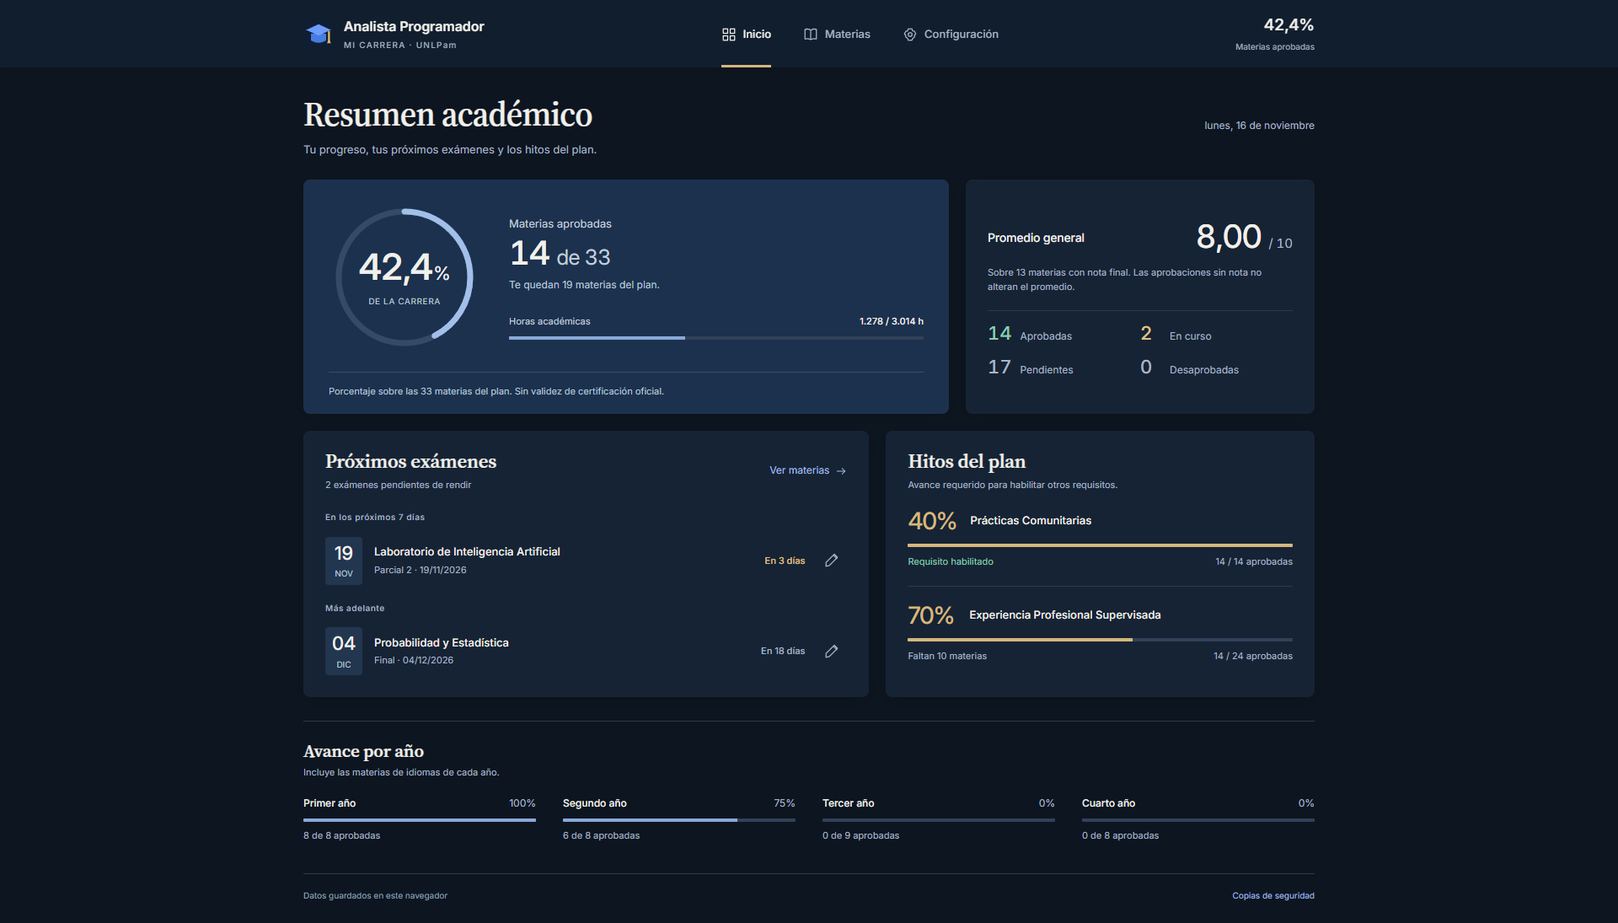
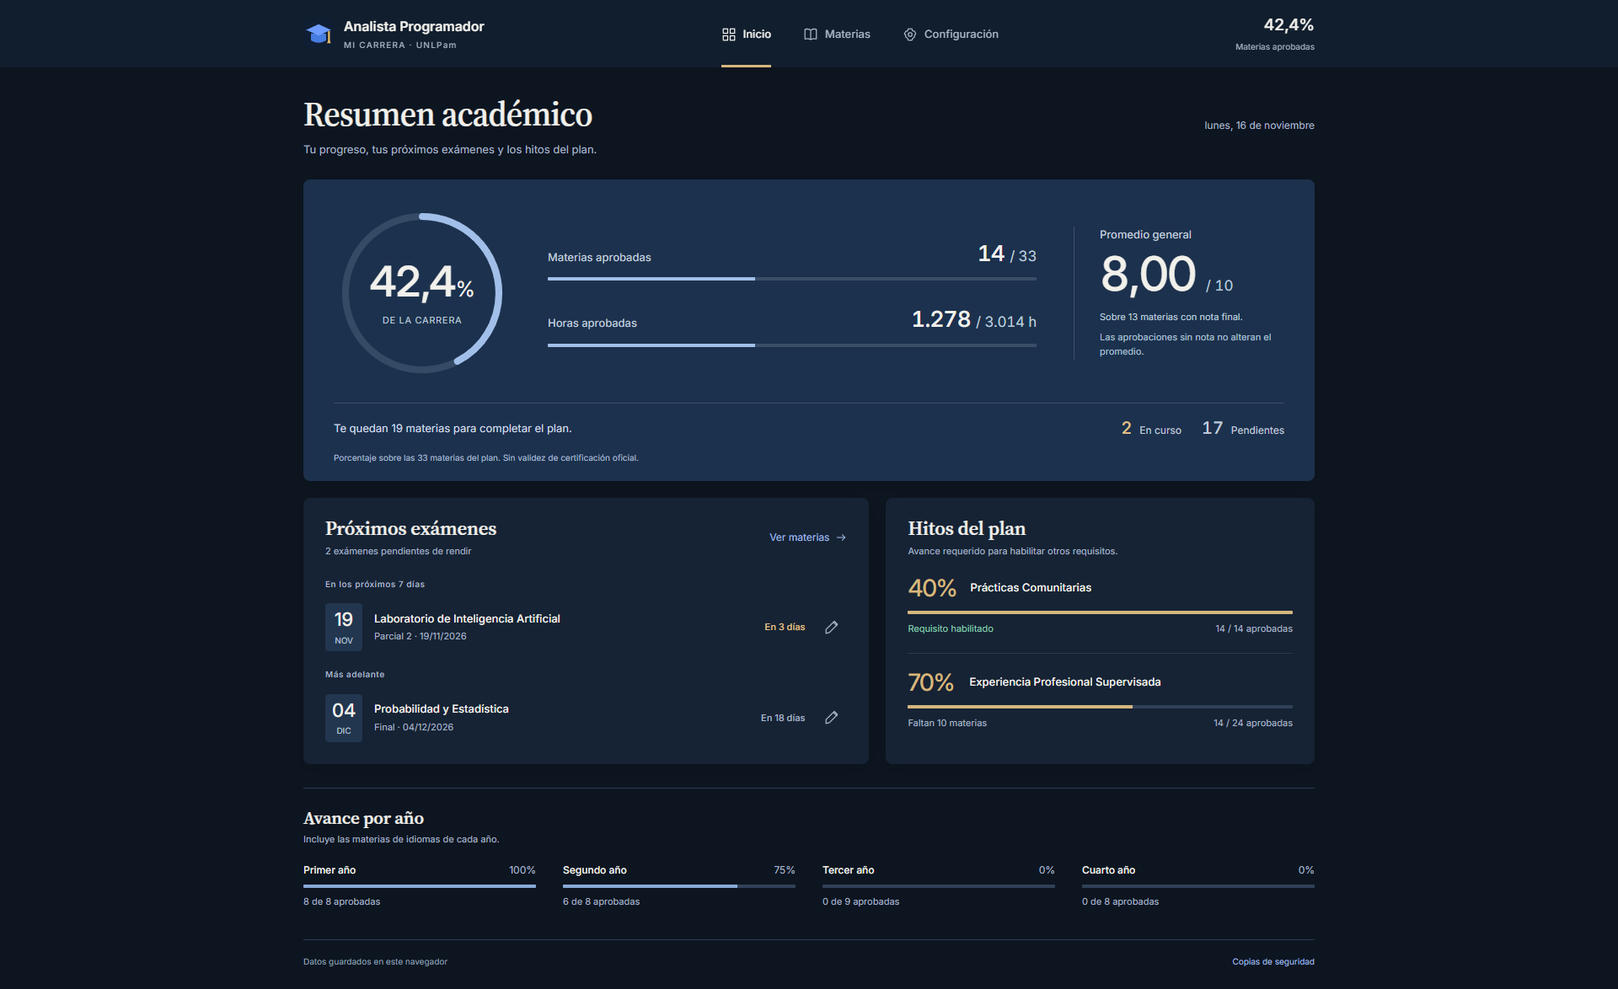
feat: integrar el resumen académico en una hero card

diff --git a/css/styles.css b/css/styles.css
@@ -75,40 +75,43 @@ main { max-width: 1248px; margin: auto; padding: 32px 24px 24px; outline: none; 
 .date-label, .plan-total { font-size: 12px; color: var(--muted); white-space: nowrap; }
 .panel { background: var(--surface); border-radius: var(--radius); box-shadow: 0 4px 18px #0002; }
 
-/* One dominant progress surface, with a compact academic summary beside it. */
-.hero-grid { display: grid; grid-template-columns: 1.85fr 1fr; gap: 20px; align-items: stretch; }
-.progress-card { padding: 26px 30px 18px; background: #1c314d; display: grid; grid-template-columns: 180px 1fr; align-items: center; column-gap: 34px; row-gap: 22px; }
-.ring { width: 180px; height: 180px; position: relative; }
+/* One continuous academic summary: the four core metrics share one surface. */
+.academic-hero { padding: 30px 36px 20px; background: #1c314d; }
+.hero-main { display: grid; grid-template-columns: 210px minmax(0,1fr) 250px; align-items: center; gap: 44px; }
+.ring { width: 210px; height: 210px; position: relative; }
 .ring svg { width: 100%; height: 100%; transform: rotate(-90deg); }
 .ring circle { fill: none; stroke-width: 7; }
 .ring-track { stroke: #344a65; }
 .ring-progress { stroke: var(--blue); stroke-linecap: round; transition: stroke-dasharray .3s; }
 .ring-center { position: absolute; inset: 0; display: flex; flex-direction: column; justify-content: center; align-items: center; }
-.ring-value { font-size: 43px; font-weight: 550; line-height: 1.1; letter-spacing: -2px; font-variant-numeric: tabular-nums; }
-.ring-value small { font-size: 22px; font-weight: 400; letter-spacing: 0; margin-left: 2px; }
-.ring-caption { font-size: 10px; letter-spacing: .6px; color: #bbc8d8; margin-top: 9px; }
-.card-kicker { font-size: 13px; color: #c1cede; margin-bottom: 3px; }
-.progress-copy h2 { font: 550 39px/1.15 Inter, sans-serif; letter-spacing: -1.4px; font-variant-numeric: tabular-nums; }
-.progress-copy h2 span { font-size: 25px; color: #c1cede; font-weight: 400; letter-spacing: -.7px; }
-.progress-copy > p { font-size: 12px; margin-top: 6px; color: #b7c6d9; }
-.hours { margin-top: 26px; }
+.ring-value { font-size: 50px; font-weight: 550; line-height: 1.1; letter-spacing: -2.4px; font-variant-numeric: tabular-nums; }
+.ring-value small { font-size: 25px; font-weight: 400; letter-spacing: 0; margin-left: 2px; }
+.ring-caption { font-size: 11px; letter-spacing: .7px; color: #bbc8d8; margin-top: 10px; }
+.hero-metrics { display: grid; gap: 30px; }
+.hero-metric-heading { display: flex; align-items: baseline; justify-content: space-between; gap: 16px; margin-bottom: 12px; }
+.hero-metric h2, .hero-average h2 { font: 450 13px/1.5 Inter, sans-serif; color: #c1cede; letter-spacing: 0; }
+.hero-metric-value { color: var(--text); font-size: 26px; line-height: 1.25; font-weight: 550; letter-spacing: -.7px; white-space: nowrap; font-variant-numeric: tabular-nums; }
+.hero-metric-value span { color: #bfccdc; font-size: 17px; font-weight: 400; letter-spacing: -.2px; }
+.hero-average { padding-left: 30px; border-left: 1px solid #40536d; }
+.average-value { margin-top: 6px; color: var(--text); font-size: 56px; font-weight: 500; line-height: 1.1; letter-spacing: -2.5px; white-space: nowrap; font-variant-numeric: tabular-nums; }
+.average-value small { font-size: 17px; font-weight: 400; color: #bdcbdd; letter-spacing: 0; }
+.average-note { font-size: 11px; line-height: 1.6; margin-top: 12px; color: #bfccdc; }
+.average-explanation { margin-top: 6px; font-size: 11px; line-height: 1.6; color: #b0c1d6; }
+.hero-footer { display: flex; align-items: center; justify-content: space-between; flex-wrap: wrap; gap: 14px 28px; border-top: 1px solid #3b4e68; padding-top: 17px; margin-top: 25px; }
+.hero-context { color: #cfdae8; font-size: 13px; }
+.hero-status { display: flex; align-items: baseline; flex-wrap: wrap; gap: 24px; }
+.hero-status > div { display: flex; align-items: baseline; gap: 9px; }
+.hero-status dt { font-size: 12px; color: #c0ccdc; order: 2; }
+.hero-status dd { font-size: 20px; font-weight: 500; line-height: 1.2; font-variant-numeric: tabular-nums; }
+.hero-status .muted { color: #c0ccdc; }
+.hero-note { margin-top: 14px; color: #aebfd4; font-size: 10px; line-height: 1.6; }
 .bar-label { display: flex; align-items: baseline; justify-content: space-between; gap: 12px; color: var(--muted); font-size: 12px; margin-bottom: 9px; }
 .bar-label strong { color: var(--text); font-size: inherit; font-weight: 500; }
-.hours .bar-label { color: #c1cede; font-size: 11px; }
 .track { height: 4px; background: #304158; overflow: hidden; border-radius: 1px; }
 .track span { display: block; height: 100%; background: #88a9d8; transition: width .3s; }
+.academic-hero .track { background: #3b4e68; }
+.academic-hero .track span { background: var(--blue); }
 .caption { font-size: 12px; line-height: 1.65; color: var(--muted); }
-.progress-note { grid-column: 1/-1; padding-top: 13px; border-top: 1px solid #3b4e68; font-size: 11px; color: #b6c5d8; }
-.average-card { padding: 23px 26px 21px; display: flex; flex-direction: column; justify-content: center; }
-.average-heading { display: flex; align-items: center; justify-content: space-between; gap: 16px; }
-.average-heading h2 { font: 500 14px/1.5 Inter, sans-serif; }
-.average-value { font-size: 38px; line-height: 1.2; font-weight: 500; letter-spacing: -1.5px; white-space: nowrap; font-variant-numeric: tabular-nums; }
-.average-value small { font-size: 15px; letter-spacing: 0; color: var(--muted); font-weight: 400; }
-.average-note { font-size: 11px; line-height: 1.6; margin: 11px 0 18px; }
-.stats-grid { display: grid; grid-template-columns: 1fr 1fr; border-top: 1px solid var(--border); }
-.stat-card { display: flex; align-items: baseline; gap: 10px; padding: 13px 12px 0 0; }
-.stat-card dt { font-size: 12px; order: 2; color: var(--muted); }
-.stat-card dd { min-width: 25px; font-size: 22px; line-height: 1.2; font-weight: 500; font-variant-numeric: tabular-nums; }
 
 .lower-grid { display: grid; grid-template-columns: 1.32fr 1fr; gap: 20px; margin-top: 20px; align-items: stretch; }
 .section-head { display: flex; align-items: center; justify-content: space-between; gap: 20px; padding: 22px 26px 0; }
@@ -280,15 +283,17 @@ dialog::backdrop { background: #050c16cc; }
   .brand { font-size: 14px; }
   .tab { padding: 0 12px; }
   .mode-label span { font-size: 9px; }
-  .hero-grid { grid-template-columns: 1.7fr 1fr; gap: 16px; }
-  .progress-card { grid-template-columns: 145px 1fr; padding: 24px; column-gap: 20px; }
-  .ring { width: 145px; height: 145px; }
-  .ring-value { font-size: 34px; }
-  .progress-copy h2 { font-size: 34px; }
-  .progress-copy h2 span { font-size: 21px; }
-  .hours .bar-label { flex-direction: column; gap: 3px; }
-  .average-card { padding: 22px; }
-  .average-value { font-size: 33px; }
+  .academic-hero { padding: 26px 28px 20px; }
+  .hero-main { grid-template-columns: 165px minmax(0,1fr) 200px; gap: 25px; }
+  .ring { width: 165px; height: 165px; }
+  .ring-value { font-size: 39px; }
+  .ring-value small { font-size: 21px; }
+  .ring-caption { font-size: 10px; }
+  .hero-metric-heading { flex-direction: column; align-items: flex-start; gap: 4px; margin-bottom: 10px; }
+  .hero-metrics { gap: 22px; }
+  .hero-metric-value { font-size: 24px; }
+  .hero-average { padding-left: 24px; }
+  .average-value { font-size: 46px; }
   .lower-grid { grid-template-columns: 1.1fr 1fr; gap: 16px; }
   .section-head, .exam-list { padding-left: 22px; padding-right: 22px; }
   .exam-item { gap: 10px; }
@@ -318,15 +323,26 @@ dialog::backdrop { background: #050c16cc; }
   .page-heading p { font-size: 12px; line-height: 1.7; max-width: 420px; }
   .eyebrow { font-size: 9px; letter-spacing: 1.1px; }
   .plan-total { font-size: 12px; }
-  .hero-grid { grid-template-columns: 1fr; gap: 16px; }
-  .progress-card { grid-template-columns: 150px 1fr; column-gap: 24px; row-gap: 20px; }
-  .ring { width: 150px; height: 150px; }
-  .hours .bar-label { flex-direction: row; }
-  .average-value { font-size: 35px; }
-  .average-note { font-size: 12px; max-width: 460px; }
-  .stat-card { padding-top: 14px; gap: 12px; }
-  .stat-card dt { font-size: 12px; }
-  .stat-card dd { font-size: 24px; }
+  .academic-hero { padding: 26px 24px 20px; }
+  .hero-main { grid-template-columns: 150px minmax(0,1fr); gap: 28px; }
+  .ring { grid-column: 1; grid-row: 1; width: 150px; height: 150px; }
+  .ring-value { font-size: 36px; }
+  .hero-average { grid-column: 2; grid-row: 1; padding-left: 0; border-left: 0; }
+  .hero-average h2 { font-size: 12px; }
+  .average-value { font-size: 44px; }
+  .average-value small { font-size: 14px; }
+  .average-note { margin-top: 10px; }
+  .average-explanation { font-size: 10px; }
+  .hero-metrics { grid-column: 1/-1; grid-row: 2; gap: 24px; }
+  .hero-metric-heading { flex-direction: row; align-items: baseline; gap: 12px; margin-bottom: 10px; }
+  .hero-metric h2 { font-size: 12px; }
+  .hero-metric-value { font-size: 24px; }
+  .hero-metric-value span { font-size: 16px; }
+  .hero-footer { margin-top: 24px; padding-top: 16px; gap: 16px; }
+  .hero-context { font-size: 12px; }
+  .hero-status { gap: 24px; }
+  .hero-status dt { font-size: 12px; }
+  .hero-note { font-size: 10px; margin-top: 16px; }
   .lower-grid { grid-template-columns: 1fr; margin-top: 16px; }
   .section-head { padding: 22px 22px 0; gap: 12px; }
   .section-head h2 { font-size: 23px; }
@@ -369,18 +385,19 @@ dialog::backdrop { background: #050c16cc; }
 }
 @media (max-width: 430px) {
   .mode-label span { display: none; }
-  .progress-card { grid-template-columns: 122px 1fr; column-gap: 16px; padding: 23px 20px 17px; }
-  .ring { width: 122px; height: 122px; }
-  .ring-value { font-size: 30px; }
-  .ring-value small { font-size: 18px; }
-  .ring-caption { font-size: 9px; letter-spacing: 0; margin-top: 7px; }
-  .card-kicker { font-size: 12px; }
-  .progress-copy h2 { font-size: 32px; }
-  .progress-copy h2 span { font-size: 20px; }
-  .progress-copy > p { font-size: 11px; }
-  .hours { margin-top: 19px; }
-  .hours .bar-label { flex-direction: column; gap: 4px; font-size: 11px; }
-  .progress-note { font-size: 10px; }
+  .academic-hero { padding: 24px 20px 18px; }
+  .hero-main { grid-template-columns: 136px minmax(0,1fr); column-gap: 20px; row-gap: 26px; }
+  .ring { width: 136px; height: 136px; }
+  .ring-value { font-size: 33px; }
+  .ring-value small { font-size: 19px; }
+  .ring-caption { font-size: 9px; letter-spacing: .3px; margin-top: 8px; }
+  .average-value { font-size: 39px; letter-spacing: -1.9px; }
+  .average-value small { font-size: 13px; }
+  .average-note { font-size: 10px; }
+  .average-explanation { font-size: 10px; }
+  .hero-metric-heading { gap: 8px; }
+  .hero-metric-value { font-size: 22px; }
+  .hero-metric-value span { font-size: 15px; }
   .subject-summary, .column-labels { grid-template-columns: minmax(0,1fr) 80px 23px 13px; column-gap: 9px; }
   .subject-hours, .column-labels span:nth-child(2) { display: none; }
   .column-labels span:nth-child(3), .subject-status { padding-left: 0; }

diff --git a/js/render.js b/js/render.js
@@ -27,28 +27,37 @@ function examAgenda(list) {
 export function renderDash() {
   const data = getState(), s = stats(data), list = upcoming(data);
   $('header-progress').textContent = pct(s.pct) + '%';
-  const counts = [ ['green',s.ap,'Aprobadas'],['yellow',s.cur,'En curso'],['muted',s.pen,'Pendientes'],[s.des ? 'red' : 'muted',s.des,'Desaprobadas'] ];
+  const statuses = [ [s.cur,'En curso','yellow'],[s.pen,'Pendientes','muted'],...(s.des ? [[s.des,'Desaprobadas','red']] : []) ];
   $('dashboard').innerHTML = `
-    <div class="hero-grid">
-      <article class="panel progress-card">
+    <article class="panel academic-hero" aria-label="Resumen principal de la carrera">
+      <div class="hero-main">
         <div class="ring" role="img" aria-label="${pct(s.pct)} por ciento de materias aprobadas">
           <svg viewBox="0 0 180 180" aria-hidden="true"><circle class="ring-track" cx="90" cy="90" r="78"/><circle class="ring-progress" cx="90" cy="90" r="78" pathLength="100" stroke-opacity="${s.ap ? 1 : 0}" stroke-dasharray="${s.pct} 100"/></svg>
           <div class="ring-center"><div class="ring-value">${pct(s.pct)}<small>%</small></div><span class="ring-caption">DE LA CARRERA</span></div>
         </div>
-        <div class="progress-copy">
-          <div class="card-kicker">Materias aprobadas</div>
-          <h2>${s.ap} <span>de ${TOTAL_M}</span></h2>
-          <p>${s.ap === TOTAL_M ? 'Completaste las materias del plan.' : `Te ${TOTAL_M - s.ap === 1 ? 'queda 1 materia' : `quedan ${TOTAL_M - s.ap} materias`} del plan.`}</p>
-          <div class="hours"><div class="bar-label"><span>Horas académicas</span><strong>${s.hAp.toLocaleString('es-AR')} / ${TOTAL_H.toLocaleString('es-AR')} h</strong></div>${bar(s.hourPct)}</div>
+        <div class="hero-metrics">
+          <div class="hero-metric hero-subjects">
+            <div class="hero-metric-heading"><h2>Materias aprobadas</h2><p class="hero-metric-value">${s.ap} <span>/ ${TOTAL_M}</span></p></div>
+            ${bar(s.pct)}
+          </div>
+          <div class="hero-metric hero-hours">
+            <div class="hero-metric-heading"><h2>Horas aprobadas</h2><p class="hero-metric-value">${s.hAp.toLocaleString('es-AR')} <span>/ ${TOTAL_H.toLocaleString('es-AR')} h</span></p></div>
+            ${bar(s.hourPct)}
+          </div>
         </div>
-        <p class="caption progress-note">Porcentaje sobre las ${TOTAL_M} materias del plan. Sin validez de certificación oficial.</p>
-      </article>
-      <article class="panel average-card">
-        <div class="average-heading"><h2>Promedio general</h2><div class="average-value">${s.prom === null ? '—' : s.prom.toFixed(2).replace('.',',')} <small>/ 10</small></div></div>
-        <p class="average-note">${s.graded ? `Sobre ${s.graded} ${s.graded === 1 ? 'materia con nota final' : 'materias con nota final'}.` : 'Todavía no hay notas finales.'} Las aprobaciones sin nota no alteran el promedio.</p>
-        <dl class="stats-grid">${counts.map(([c,n,label]) => `<div class="stat-card"><dt>${label}</dt><dd class="${c}">${n}</dd></div>`).join('')}</dl>
-      </article>
-    </div>
+        <div class="hero-average">
+          <h2>Promedio general</h2>
+          <div class="average-value">${s.prom === null ? '—' : s.prom.toFixed(2).replace('.',',')} <small>/ 10</small></div>
+          <p class="average-note">${s.graded ? `Sobre ${s.graded} ${s.graded === 1 ? 'materia con nota final' : 'materias con nota final'}.` : 'Todavía no hay notas finales.'}</p>
+          <p class="average-explanation">Las aprobaciones sin nota no alteran el promedio.</p>
+        </div>
+      </div>
+      <div class="hero-footer">
+        <p class="hero-context">${s.ap === TOTAL_M ? 'Completaste todas las materias del plan.' : `Te ${TOTAL_M - s.ap === 1 ? 'queda 1 materia' : `quedan ${TOTAL_M - s.ap} materias`} para completar el plan.`}</p>
+        <dl class="hero-status">${statuses.map(([n,label,c]) => `<div><dt>${label}</dt><dd class="${c}">${n}</dd></div>`).join('')}</dl>
+      </div>
+      <p class="hero-note">Porcentaje sobre las ${TOTAL_M} materias del plan. Sin validez de certificación oficial.</p>
+    </article>
     <div class="lower-grid">
       <article class="panel agenda-card">
         <div class="section-head"><div><h2>Próximos exámenes</h2><p>${list.length ? `${list.length} ${list.length === 1 ? 'examen pendiente de rendir' : 'exámenes pendientes de rendir'}` : 'Tu agenda académica'}</p></div><a class="text-link" href="#materias">Ver materias ${icon('arrow')}</a></div>

diff --git a/docs/revision-visual.md b/docs/revision-visual.md
@@ -6,7 +6,7 @@
 
 La revisión encontró cuatro problemas en la composición anterior: demasiadas tarjetas con el mismo peso visual; textos de apoyo pequeños; gran distancia horizontal entre nombre y estado de materia; e información redundante en números de año, abreviaturas, iconos y etiquetas.
 
-Esta ronda concentra el progreso en una superficie principal, reúne promedio y estados en un resumen compacto y da prioridad a la agenda y a los requisitos del plan. Los años se presentan como capítulos de un registro académico, con títulos en Source Serif 4 y datos de consulta en Inter. Las fuentes están alojadas localmente y conservan sus licencias.
+El dashboard reúne porcentaje de carrera, promedio general, materias aprobadas/total y horas aprobadas/total en una sola hero card. La card ocupa todo el ancho en desktop, con una superficie continua, sin tarjetas internas. En mobile, porcentaje y promedio comparten la primera fila y las dos métricas de avance se ubican debajo. Los estados y el contexto quedan en una franja secundaria dentro de la misma card. La agenda, los hitos y el avance por año permanecen debajo, con menor peso visual. Los años se presentan como capítulos de un registro académico, con títulos en Source Serif 4 y datos de consulta en Inter. Las fuentes están alojadas localmente y conservan sus licencias.
 
 - Se eliminaron completamente los recuadros 01–04, las abreviaturas de materias y las barras laterales de estado.
 - Los estados se leen como texto y color, sin contenedores tipo pill. La nota tiene su propia columna y las horas se alinean en desktop.
@@ -28,7 +28,13 @@ Todas usan el mismo estado de prueba: 14 materias aprobadas, 2 en curso, una equ
 
 La captura de Materias muestra el segundo año y una materia en curso desplegada. En desktop, el detalle ocupa un panel a ancho completo debajo de ambos cuatrimestres; expandirlo no estira una columna ni agrega ese espacio vacío a la otra. En mobile, el mismo detalle vuelve a ubicarse junto a su materia, conservando sus controles e información.
 
-## Última pasada puntual
+## Jerarquía del dashboard
+
+Se reemplazaron las dos tarjetas superiores por un resumen único. El porcentaje mantiene el anillo SVG y el promedio conserva un tamaño destacado. Las barras de materias y horas permiten leer sus denominadores en la misma superficie; todos los valores siguen proviniendo del estado real. Se mantienen las aclaraciones sobre aprobaciones sin nota y el carácter informativo del porcentaje.
+
+Se actualizaron únicamente las cuatro capturas de Inicio de la galería. Las capturas de Materias y Configuración siguen representando su diseño actual, que no cambió en esta revisión.
+
+## Ajustes puntuales de Materias y Configuración
 
 - El contador de resultados permanece oculto si no hay una búsqueda o un filtro activo; ignorar espacios evita activarlo con una búsqueda vacía.
 - El historial se titula **Copias de seguridad**. Las copias se crean antes de importar o migrar datos, no mediante un programa periódico.
@@ -39,7 +45,7 @@ La captura de Materias muestra el segundo año y una materia en curso desplegada
 ## Comprobación
 
 - 17 pruebas de dominio y almacenamiento aprobadas; no se modificaron las reglas académicas ni el formato de persistencia en esta ronda.
-- 50 comprobaciones de navegador aprobadas, incluidas las funciones locales, foco, actualizaciones inmediatas y navegación.
+- 54 comprobaciones de navegador aprobadas, incluidas las funciones locales, foco, actualizaciones inmediatas y navegación.
 - Sin desbordes horizontales en las tres vistas a 1920, 1440, 1280, 768 y 390 px.
 - Sin errores JavaScript ni solicitudes a servicios externos.
 - Recursos y tipografías disponibles bajo `/mi-carrera/`.

diff --git a/docs/validacion.md b/docs/validacion.md
@@ -3,7 +3,7 @@
 Fecha: 16 de noviembre de 2026. Entorno: Node.js 24 y Microsoft Edge con Playwright, en un contexto aislado.
 
 - `npm test`: **17 pruebas aprobadas**, sin fallos.
-- `node scripts/run-browser-qa.mjs`: **50 comprobaciones aprobadas**, sin errores JavaScript. Resultado detallado: [browser-qa.json](browser-qa.json).
+- `node scripts/run-browser-qa.mjs`: **54 comprobaciones aprobadas**, sin errores JavaScript. Resultado detallado: [browser-qa.json](browser-qa.json).
 - Responsive: Inicio, Materias y Configuración a **1920, 1440, 1280, 768 y 390 px**, sin desbordes horizontales.
 - Revisión visual: dashboard, materias y configuración en desktop y mobile, más favicon rasterizado a 16 px.
 - Migración: copia exacta anterior y agregado determinista de IDs; notas, propiedades y requisitos se conservan. Se probó idempotencia y bloqueo seguro ante fallos.
@@ -13,6 +13,7 @@ Fecha: 16 de noviembre de 2026. Entorno: Node.js 24 y Microsoft Edge con Playwri
 - Accesibilidad: campos identificados, navegación por teclado, foco dentro del diálogo, Escape para cerrar y restauración del foco.
 - Recursos: respuestas HTTP 200 para SVG, PNG, iconos móviles, manifest, CSS y módulos bajo `/mi-carrera/`. Navegación por fragmentos compatible con hosting estático.
 - Revisión visual adicional: sin recuadros numerados, abreviaturas, barras laterales o pills redundantes; cuatrimestres alineados en desktop y buscador mobile con ancho útil.
+- Hero card: una sola superficie sin tarjetas internas; porcentaje, promedio, materias y horas verificados con datos conocidos y contenidos dentro de la card en los cinco anchos.
 - Ajustes puntuales: detalle desktop a ancho completo sin alterar las alturas de los cuatrimestres; detalle inline y grupos de acciones separados en mobile; contador condicional; título Copias de seguridad.
 - Navegación: recupera la posición de lectura por vista y abre el año con cursadas activas.
 - Fuentes locales cargadas correctamente; ninguna solicitud de la aplicación a servicios externos.
@@ -25,3 +26,5 @@ No se publicó en GitHub Pages: la comprobación de rutas reproduce el prefijo l
 No se implementaron ni probaron backend, autenticación remota, webhook, comandos de Telegram o avisos programados. La Entrega 2 está limitada a la evaluación solicitada.
 
 Las capturas se actualizaron para esta iteración visual a 1920, 1440, 1280 y 390 px. La entrega queda preparada para revisión del propietario, sin push ni despliegue.
+
+La reorganización más reciente afecta exclusivamente a Inicio. Sus cuatro capturas se regeneraron; Materias y Configuración conservan su última versión visual y sus comprobaciones funcionales.

diff --git a/README.md b/README.md
@@ -20,7 +20,7 @@ npm install --no-save playwright
 node scripts/run-browser-qa.mjs
 ```
 
-El servidor debe estar iniciado. El runner también acepta como primer argumento la ruta absoluta de una instalación existente de Playwright. Las capturas usan datos de prueba; no son datos personales ni valores precargados en la aplicación. Resultados en `docs/browser-qa.json`.
+El servidor debe estar iniciado. La opción `--dashboard-only` regenera únicamente las capturas de Inicio y conserva la verificación funcional de las tres vistas. El runner también acepta como primer argumento la ruta absoluta de una instalación existente de Playwright. Las capturas usan datos de prueba; no son datos personales ni valores precargados en la aplicación. Resultados en `docs/browser-qa.json`.
 
 ## Datos existentes
 
@@ -49,7 +49,7 @@ node scripts/generate-icons.mjs
 
 ## Revisión visual
 
-La iteración actual usa superficies de mayor contraste y una jerarquía tipográfica académica. Los encabezados de año no incluyen recuadros numerados y las filas no muestran abreviaturas o identificadores internos. En desktop los cuatrimestres se presentan en paralelo, con horas, estado y nota alineados. Los detalles abiertos ocupan el ancho completo debajo de ambos cuatrimestres; en mobile vuelven a su fila y separan las acciones principales de las secundarias. El contador de resultados aparece solo al buscar o filtrar, y el historial de Configuración se titula Copias de seguridad.
+La iteración actual usa superficies de mayor contraste y una jerarquía tipográfica académica. Inicio concentra porcentaje, promedio, materias aprobadas y horas en una sola hero card a ancho completo; exámenes, hitos y avance por año quedan como contenido secundario. Los encabezados de año no incluyen recuadros numerados y las filas no muestran abreviaturas o identificadores internos. En desktop los cuatrimestres se presentan en paralelo, con horas, estado y nota alineados. Los detalles abiertos ocupan el ancho completo debajo de ambos cuatrimestres; en mobile vuelven a su fila y separan las acciones principales de las secundarias. El contador de resultados aparece solo al buscar o filtrar, y el historial de Configuración se titula Copias de seguridad.
 
 Se incluyen Inter y Source Serif 4 como archivos locales con sus licencias. La aplicación no solicita fuentes ni servicios externos. Los detalles de la revisión y las doce capturas están en [docs/revision-visual.md](docs/revision-visual.md).
 
